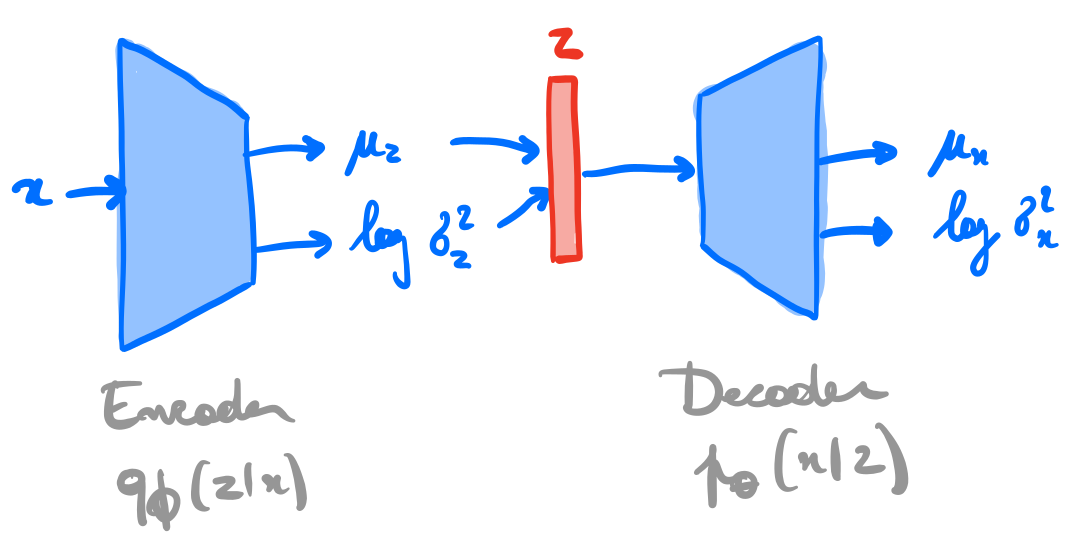
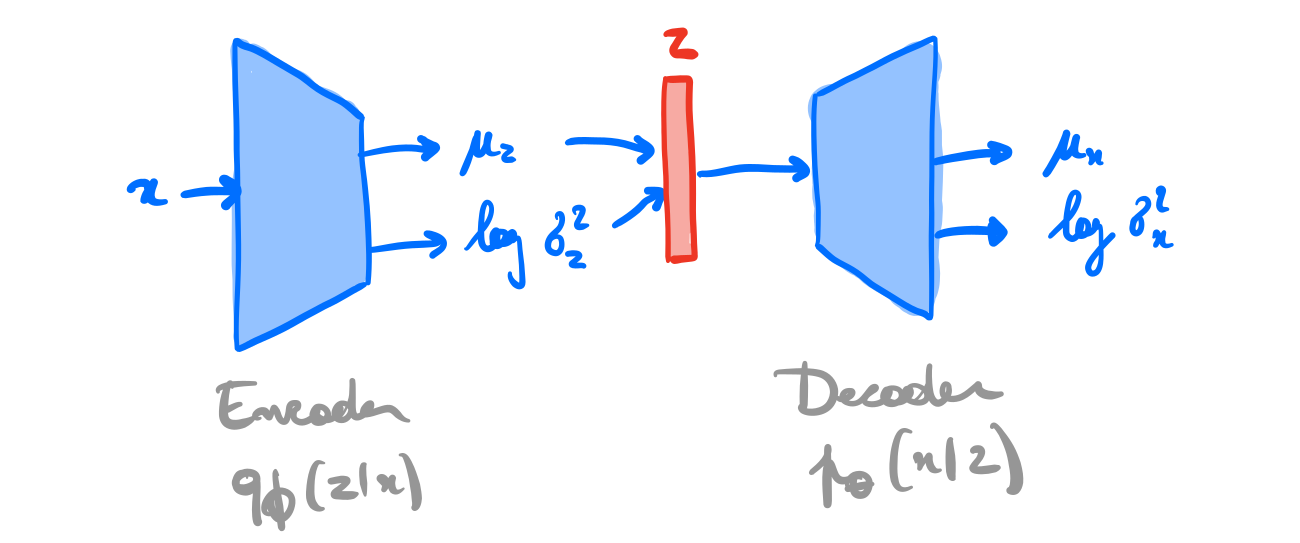
save

diff --git a/lecture-lvm.md b/lecture-lvm.md
@@ -304,7 +304,7 @@ class: middle
 
 ## Variational auto-encoders
 
-.center.width-80[![](figures/lec11/vae-architecture.png)]
+.center.width-100[![](figures/lec11/vae-architecture.png)]
 
 ???
 
@@ -350,6 +350,12 @@ class: middle
 Consider as data $\mathbf{d}$ the MNIST digit dataset:
 
 .center.width-80[![](figures/lec11/mnist.png)]
+
+---
+
+class: middle
+
+.center.width-90[![](figures/lec11/vae-architecture-mnist.png)]
 
 ---
 
